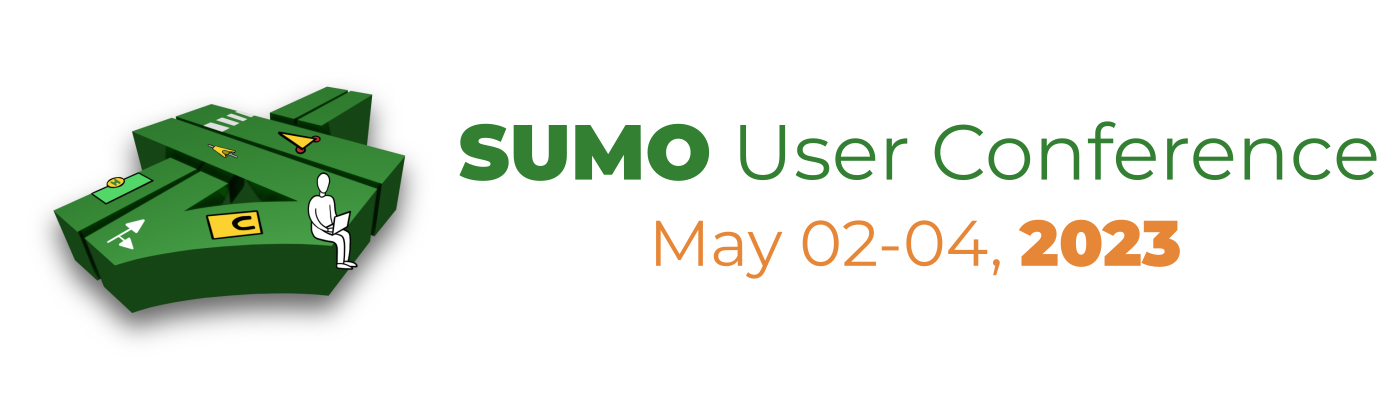
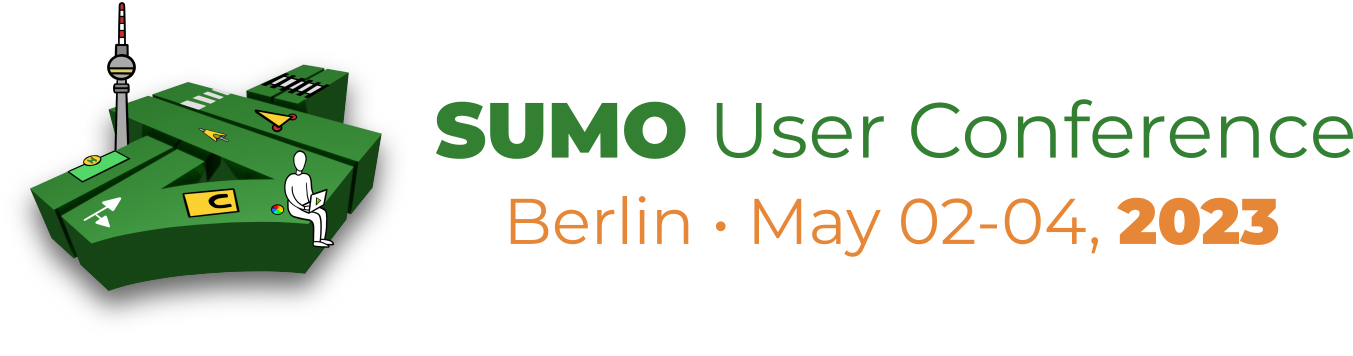
2023 call for papers

Changed region(s): [[0.0, 0.0, 1.0, 0.8961], [0.3725, 0.5253, 0.9623, 0.7416]]

diff --git a/themes/sumo-theme/layouts/index.html b/themes/sumo-theme/layouts/index.html
@@ -122,6 +122,25 @@
         <a class="btn btn-light" href="https://mattermost.eclipse.org/eclipse/channels/sumo" aria-label="Mattermost"><span class="fas fa-comments"></span></a>
         <a class="btn btn-light" href="{{ `contact` | absURL }}" aria-label="contact"><span class="fas fa-envelope"></span></a>
       </div>
+
+      <a href="{{ `conference` | absURL }}" class="text-decoration-none" style="color: inherit">
+        <div class="card">
+          <div class="card-header">
+            <img src="{{ `images/banner_2023.png` | absURL }}" style="width: 100%">
+          </div>
+          <div class="card-body text-center">
+            <strong id="remaining-days"></strong> days remaining
+          </div>
+        </div>
+      </a>
+
+      <script>
+        let conference_date = new Date('05/02/2023');
+        let current_date = new Date();
+        var remainingDays = Math.ceil((conference_date.getTime() - current_date.getTime()) / (1000 * 3600 * 24));
+        document.getElementById("remaining-days").innerHTML = remainingDays;
+      </script>
+
     </div>
   </div>
 
@@ -309,7 +328,7 @@ for (let video of videos) {
 
 	// Add a thumbnail
 	video.innerHTML =
-		`${video.textContent}<br><div class="video-container">
+		`${video.textContent}<div class="video-container">
         <img alt="" class="tutorial-video" src="https://img.youtube.com/vi/${id}/maxresdefault.jpg">
         <div class="centered video-text">Click to load external resources from YouTube.</div>
         </div>`;

diff --git a/content/conference.md b/content/conference.md
@@ -2,23 +2,132 @@
 title: "SUMO User Conference 2023"
 subtitle: ""
 conferenceDate: "May 02-04"
-conferenceLocation: "to be announced"
+conferenceLocation: "Berlin-Adlershof, Germany"
 description : "Get in touch with our international user community"
 layout: "single"
 conference-page: true
 draft: false
 ---
 
-<div class="text-center"><img src="../images/banner_2023.png" style="width:70%;" alt="Conference artwork" class="img-responsive"/></div>
+<div class="text-center"><img src="../images/banner_2023.png" style="width:84%;" alt="Conference artwork" class="img-responsive"/></div>
 
 ---
 
 # Save the date!
-SUMO User Conference 2023: May 02-04.
+SUMO User Conference 2023: May 02-04 in Berlin.
 
-<div style="background-color: #E2F3E3; padding: 20px; border-radius: 10px;">
-<center><i style="font-size: 3rem; font-weight: 700;">More info coming soon ...</i></center>
+<div class="disclaimer"></div>
+
+# Call for Papers
+The conference focuses on presenting new and unique results in the field of mobility simulation and modelling using openly available tools and data. We expect a large variety of research topics and usage approaches. If you are working on a research project fitting the topics below, you are kindly invited to submit an abstract. Possible areas of interest include (but are not limited to):
+
+- Mobility and Demand Modelling
+- Traffic Simulation
+- Open Tools and Open Data
+- Modelling Urban Mobility
+- Traffic Applications
+- Traffic Management Solutions
+- Intermodal Transport
+- Autonomous Driving
+- Logistics Simulation
+- Vehicular Communication
+- E-Mobility
+- Reinforcement learning / Machine Learning
+
+# Paper Submission
+There are two submission types:
+
+1. Scientific Papers:
+   - All accepted scientific papers must be presented at the conference.
+   - Scientific papers will be reviewed by at least 2 reviewers.
+   - All accepted scientific papers will be published in the SUMO proceedings.
+   - Title and a short abstract (300 words) must be submitted until Monday, **January 09th, 2023**.
+   - Paper must be submitted in LaTeX or Word format before midnight, Monday, **February 13th, 2023**.
+   - Scientific papers should be between 5 and 20 pages long.
+<div class="alert alert-info" role="alert">
+  All Papers must use the <a href="https://easychair.org/publications/for_authors" class="alert-link">EasyChair templates</a>.
 </div>
+
+<br>
+
+2. Technical Presentations / Posters:
+    - The SUMO conference gives the opportunity to present your topic during the poster session or an oral short presentation.
+    - There is no need to write a scientific paper.
+    - Possible technical presentations can be:
+        - Results of Bachelor or Master theses
+        - Live Demos
+        - SUMO Use Cases
+        - Project Presentations
+        - Work in Progress which would benefit from the feedback of other SUMO users
+    - Title and a short abstract (300 words) must be submitted until Monday, **January 09th, 2023**.
+    - Final Poster / Technical Presentation must be submitted before midnight, Monday, **April 10th, 2023**. 
+    - Technical Presentations / Posters do not require following a specific template.
+
+## Submission Link
+
+*Will be available soon.*
+
+
+## Ethics and Malpractice Statement
+
+You can read our *[Publication Ethics and Publication Malpractice Statement](../docs/SUMOPublicationEthics.pdf)*, where we list the responsibilities of editors, reviewers, and authors.
+
+# Important Dates
+
+- Title and Abstract submission deadline: **Monday, January 09th, 2023**.
+- Paper submission deadline: **Monday, February 13th, 2023**.
+- Notification of acceptance/rejection: **End of March, 2023**.
+- Camera Ready Paper deadline: **Monday, April 10th, 2023**.
+
+# Agenda
+*Available on March 2023*
+
+
+# Keynote
+*More info coming soon*
+
+# Prices
+
+- Regular Ticket: **495 EUR**
+- One-Day-Ticket: **325 EUR**
+- Authors and Project Partners: **275 EUR**
+- "Limited" Student Grants: **50 EUR**
+
+All prices are Tax-excluded
+
+# Registration
+The registration fee includes a two and a half day conference program with refreshments, lunch, proceedings and social events in the evening. Accommodation is not included within the registration fee and must be pre-booked separately.
+
+*Registration link coming soon*
+
+# Social Event
+*More info coming soon*
+
+# Language
+The conference language is English.
+
+# Venue
+German Aerospace Center   
+Institute of Transportation Systems   
+Rutherfordstr. 2   
+12489 Berlin   
+Germany
+
+<div class="disclaimer"></div>
 
 # Contact
 Please contact the conference team via mail at [sumo-conference@dlr.de](mailto:sumo-conference@dlr.de)
+
+<script>
+    var disclaimer_HTML = `
+    <div class="alert alert-secondary" role="alert">
+    <h6 class="alert-heading">Disclaimer</h6>
+    <p>We are keeping an eye on the ongoing COVID-19 situation (regarding possible travel restrictions) and given the case would do the conference online (only as a last resort fallback) - keeping the same date (May 02-04, 2023).</p>
+    <hr>
+    <p class="mb-0">We would inform you on time and refund registration fees.</p>
+    </div>`;
+    var elements = document.getElementsByClassName("disclaimer");
+    for(var i = 0; i < elements.length; i++) {
+        elements[i].innerHTML = disclaimer_HTML;
+    }
+</script>

diff --git a/content/_index.md b/content/_index.md
@@ -16,7 +16,7 @@ draft: false
 </div> -->
 
 <!-- YouTube Tutorial -->
-<a data-youtube href="https://www.youtube.com/watch?v=urKtJj87X5M">Watch the 2022 Tutorial</a>
+<a data-youtube href="https://www.youtube.com/watch?v=urKtJj87X5M"></a>
 
 <!-- Short text -->
 SUMO allows modelling of intermodal traffic systems including road vehicles, public transport and pedestrians. Included with SUMO is a wealth of supporting tools which handle tasks such as route finding, visualization, network import and emission calculation. SUMO can be enhanced with custom models and provides various APIs to remotely control the simulation.   
